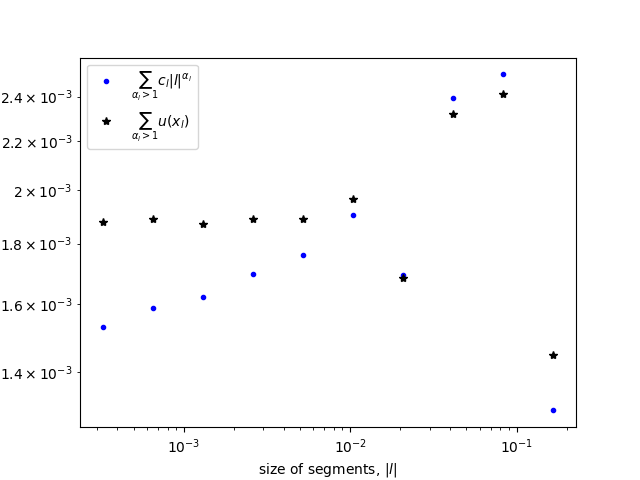
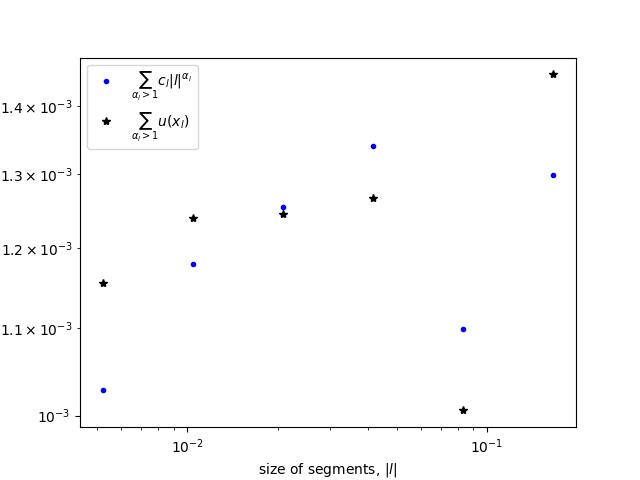
update

diff --git a/Ex3_square_harmonic_adaptive/check_hm.py b/Ex3_square_harmonic_adaptive/check_hm.py
@@ -49,7 +49,7 @@ line_list=line_list+line_list2
 # distance to boundary
 dy_list=[0.5*(1/3.)**n*(1/2.)**i for i in range(5)]
 
-N_all=[2*2**i for i in range(10)]
+N_all=[2*2**i for i in range(6)]
 l_list=[] # size of segments
 ms_list=[]
 ms_u_list=[]
@@ -60,7 +60,7 @@ for N in N_all:
    ms_u=0
    alpha_list,c_list,xl_list=get_alpha(uh,line_list,dy_list,N,l)[0:3]
    for i in range(len(alpha_list)):
-     if alpha_list[i]>1:
+     if alpha_list[i]>1.001:
         ms=ms+c_list[i]*l**alpha_list[i]
         ms_u=ms_u+uh.at(xl_list[i]) 
    ms_list.append(ms)
